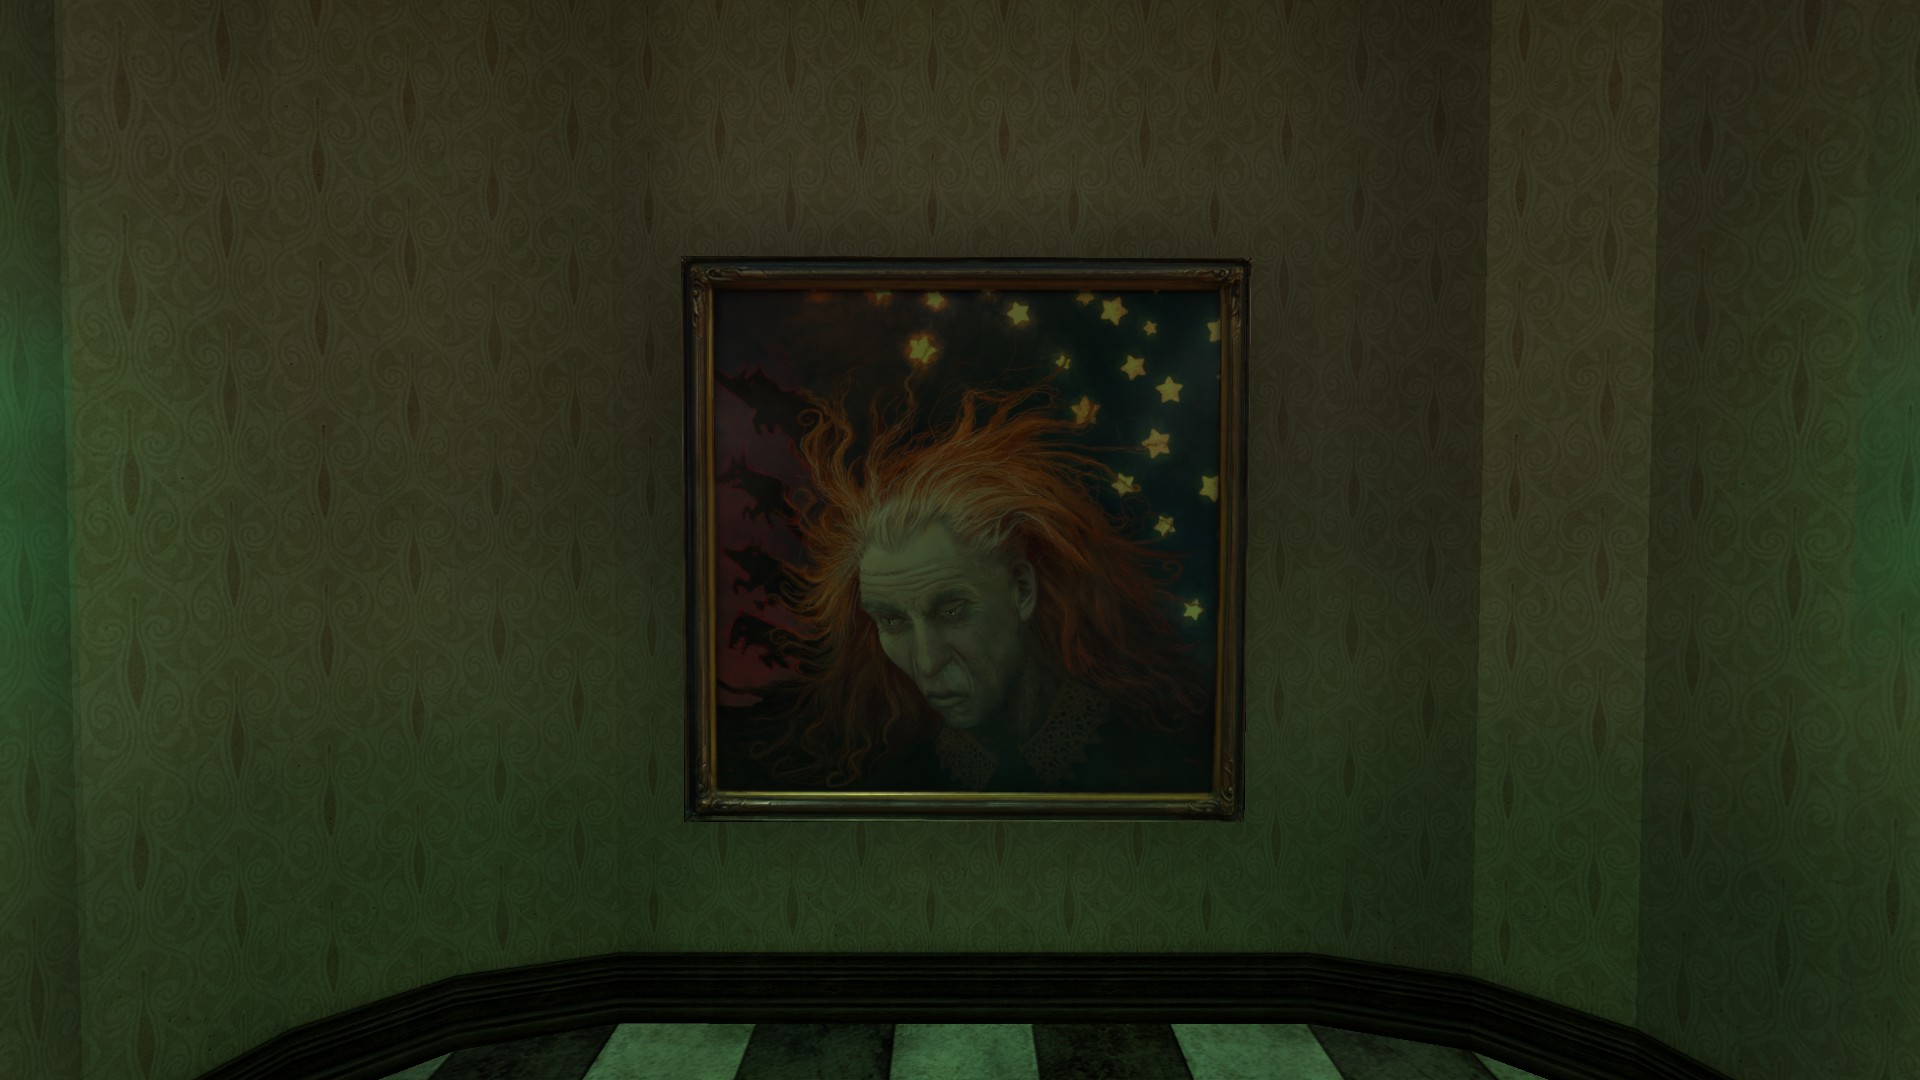
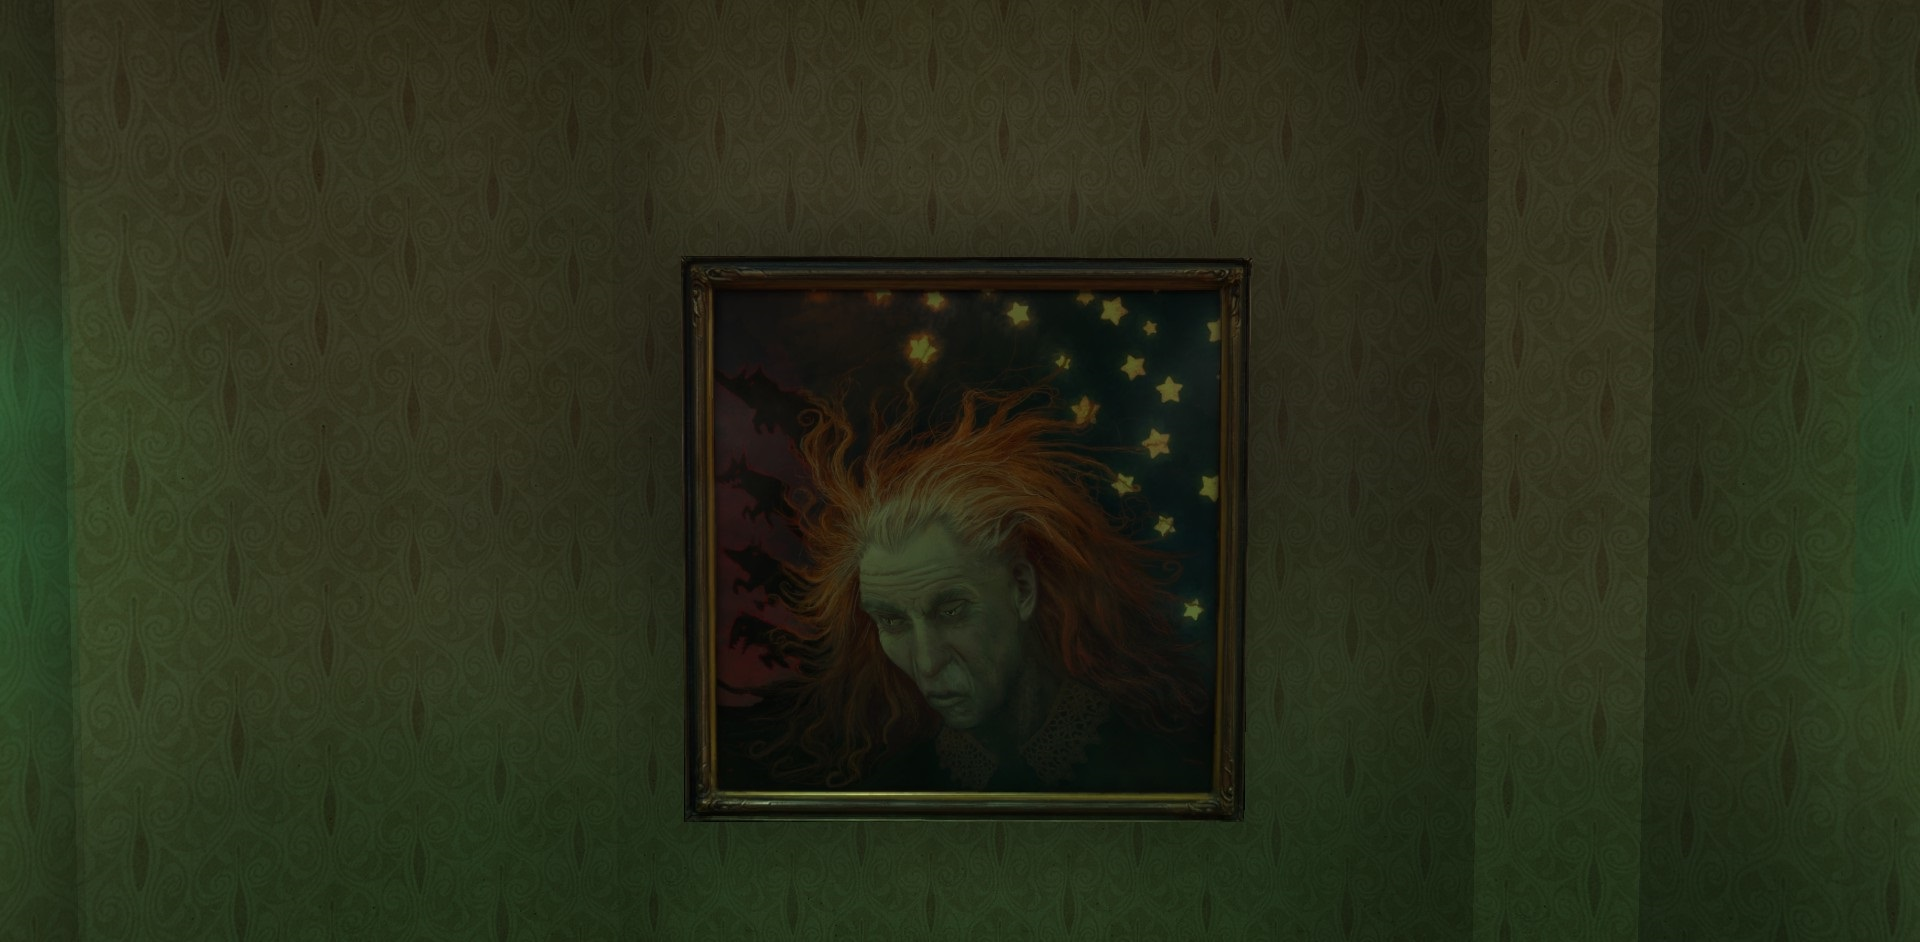
Tuning warp
Subtle changes.

diff --git a/index.html b/index.html
@@ -6,84 +6,77 @@
 	<link rel="stylesheet" type="text/css" media="screen" href="global.css" />
 	<script type="text/javascript" src="https://code.jquery.com/jquery-3.2.0.min.js"></script>
 	<link href='https://fonts.googleapis.com/css?family=Droid+Sans+Mono' rel='stylesheet' type='text/css' />
-
 	<script type="text/javascript">
-
 		ratio = 16/9;
 		episodes = ["dictation_message_1.mp3", "dictation_message_2.mp3", "dictation_message_3.mp3", "dictation_message_4.mp3", "dictation_message_5.mp3",
 					"dictation_message_6.mp3", "dictation_message_7.mp3", "dictation_message_8.mp3", "dictation_message_9.mp3"];
 		current = 0;
-		
 		var img = new Image();
 		img.onload = start;
 		img.src = "background.jpg";
-		
+
 		function start() {
-		var canvas = document.querySelector("canvas");
-		var ctx = canvas.getContext("2d");
+			var canvas = document.querySelector("canvas");
+			var ctx = canvas.getContext("2d");
 
-		function mix(a, b, l) {
-			return a + (b - a) * l;
-		}
-  
-		function upDown(v) {
-			return Math.sin(v) * 0.1 + 0.1;
-		}
-  
-		function render(time) {
-			time *= 0.001;
-	
-			resize(canvas);
-
-			var t1 = time;
-			var t2 = time * 0.37;
-
-			// for each line in the canvas
-			for (var dstY = 0; dstY < canvas.height; ++dstY) {
-      
-			// v is value that goes 0 to 1 down the canvas
-			var v = dstY / canvas.height;
-      
-			// compute some amount to offset the src
-			var off1 = Math.sin((v + 0.1) * mix(3, 12, upDown(t1))) * 300;
-			var off2 = Math.sin((v + 0.1) * mix(3, 12, upDown(t2))) * 300;
-			var off = off1 + off2;
-      
-			// compute what line of the source image we want
-			// NOTE: if off = 0 then it would just be stretching
-			// the image down the canvas.
-			var srcY = dstY * img.height / canvas.height + off;
-      
-			// clamp srcY to be inside the image
-			srcY = Math.max(0, Math.min(img.height - 1, srcY));
-
-			// draw a single line from the src to the canvas
-			ctx.drawImage(
-				img, 
-				0, srcY, img.width, 1, 
-				0, dstY, canvas.width, 1);
-			}    
-    
-			requestAnimationFrame(render);
-		}
-		requestAnimationFrame(render);
-
-		function resize(canvas) {
-			var width = canvas.clientWidth;
-			var height = canvas.clientHeight;
-			if (width != canvas.width || height != canvas.height) {
-			canvas.width = width;
-			canvas.height = height;
+			function mix(a, b, l) {
+				return a + (b - a) * l;
 			}
+
+			function upDown(v) {
+				return Math.sin(v) * 0.1 + 0.1;
+			}
+
+			function render(time) {
+				time *= 0.000032;
+				var t1 = time * 0.37;
+				var t2 = time * 0.62;
+
+				resize(canvas);
+
+				// for each line in the canvas
+				for (var dstY = 0; dstY < canvas.height; ++dstY) {
+
+					// v is value that goes 0 to 1 down the canvas
+					var v = dstY / canvas.height;
+
+					// compute some amount to offset the src
+					var off1 = Math.sin((v + 0.1) * mix(3, 69, upDown(t1))) * 30;
+					var off2 = Math.sin((v + 0.1) * mix(3, 12, upDown(-t2))) * 30;
+					var off = off1 + off2;
+
+					// compute what line of the source image we want
+					// NOTE: if off = 0 then it would just be stretching
+					// the image down the canvas.
+					var srcY = dstY * img.height / canvas.height + off;
+
+					// clamp srcY to be inside the image
+					srcY = Math.max(0, Math.min(img.height - 2, srcY));
+
+					//draw the image on the canvas
+					ctx.drawImage(img, 0, srcY, img.width, 1, 0, dstY, canvas.width, 1);
+					}
+
+					requestAnimationFrame(render);
+				}
+				requestAnimationFrame(render);
+
+				function resize(canvas) {
+					var width = canvas.clientWidth;
+					var height = canvas.clientHeight;
+					if (width != canvas.width || height != canvas.height) {
+						canvas.width = width;
+						canvas.height = height;
+					}
+				}
 		}
-		}
-	
+
 		function playnext() {
-			$('#radio').attr('src', 'audio/'+episodes[current]);
-			$('#radio').trigger('play');
+			$('#grout').attr('src', 'audio/'+episodes[current]);
+			$('#grout').trigger('play');
 			current += 1;
 		}
-	
+
 		function resize() {
 			$('.layer').css("height", $(window).height());
 			$('.layer').css("width", $(window).width());
@@ -95,34 +88,33 @@
 				$('.scale').css("height", $(window).height());
 			}
 		}
-		
 
-		
+
+
 		$(document).ready(function() {
 			resize();
 			$(window).bind("resize", function(){ resize() });
 			$('#radio').bind("ended", function(){ playnext() });
 			playnext();
 		});
-		
+
 	</script>
 </head>
 <body>
-	<!-- <div id="background" class="layer">
-		<img class="scale" src="background.jpg" />
-	</div> -->
 	<canvas></canvas>
 	<div id="controls">
-		<audio controls="controls" id="radio">
+		<audio controls="controls" id="grout">
 			<source type="audio/mp3" />
 			Your browser does not support the audio element.
 		</audio>
-		<audio id="storm" autoplay loop>
+		<audio id="twisted" autoplay loop>
 			<source type="audio/mp3" src="audio/disturbed_and_twisted.mp3" />
 		</audio>
 	</div>
 	<div id="credit">
 		now go buy <a href="http://store.steampowered.com/app/2600/">vampire: the masquerade - bloodlines</a>
+		<br />
+		Inspired by <a href="http://debofnight.andcuriouser.com/">Deb of Night</a>
 	</div>
 </body>
 </html>
